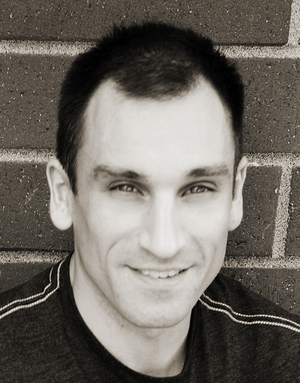
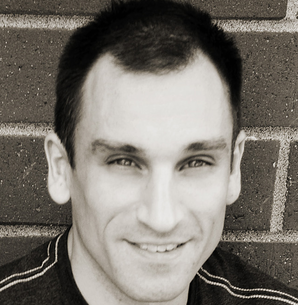
Add team placeholders

diff --git a/src/pages/index.js b/src/pages/index.js
@@ -14,6 +14,7 @@ import signupImg from "../assets/about-crs2.jpg"
 
 import daniel from "../assets/daniel.png"
 import doug from "../assets/doug.png"
+import patrick from "../assets/patrick.png"
 import tom from "../assets/tom.jpg"
 import avatar from "../assets/avatar.png"
 
@@ -112,7 +113,7 @@ export default () =>
           </div>
 
           <div className="person">
-            <img src={avatar}/>
+            <img src={patrick}/>
             <div className="overlay">
               <h1>Patrick Abadi</h1>
               <p> This is some information about patrick.</p>

diff --git a/src/styles/layout.scss b/src/styles/layout.scss
@@ -153,8 +153,8 @@ body {
       }
 
       img {
-        width: 80%;
-        height: 80%;
+        max-width: 80%;
+        max-height: 80%;
         border-radius: 5px;
         margin: 10%;
         transition: opacity .5s ease-in-out;
